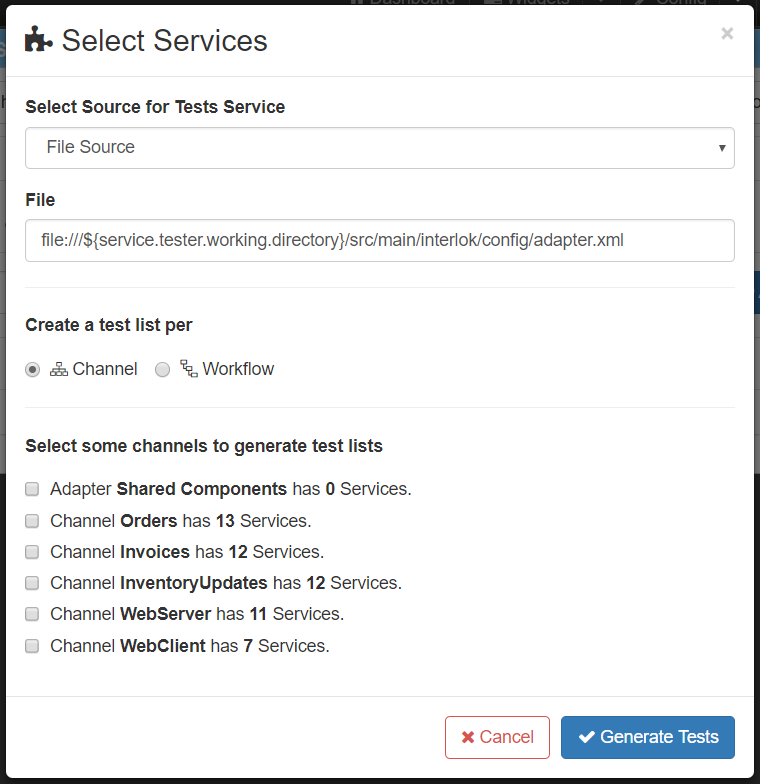
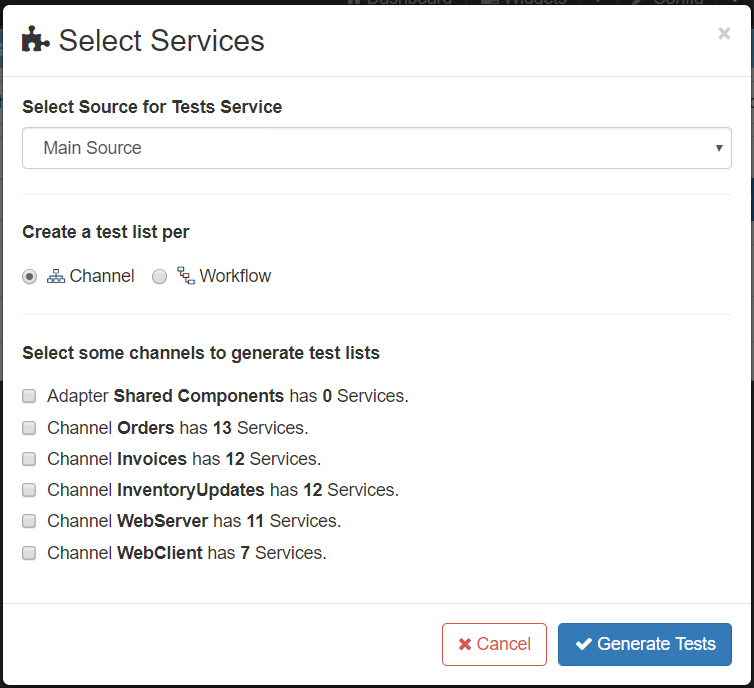
Update the service tester page doc

Changed region(s): [[0.0, 0.0, 1.0, 1.0], [0.6406, 0.0, 0.7626, 0.0305], [0.8541, 0.0, 0.9456, 0.0305]]

diff --git a/docs/pages/ui/ui-service-tester.md b/docs/pages/ui/ui-service-tester.md
@@ -26,13 +26,13 @@ The actions are as follows:
 
 Button | Action | Meaning
 ------------ | ------------- | ------------
-![The service tester new config button](../../images/ui-user-guide/service-tester-new-config-btn.png) | New Config | Reset the page with a new config
-![The service tester open from saved projects button](../../images/ui-user-guide/service-tester-open-from-saved-projects-btn.png) | Open from saved projects | Open a config from a saved config project. Since 3.8.1
-![The service tester open from saved on local file system button](../../images/ui-user-guide/service-tester-open-from-saved-on-local-file-system-btn.png) | Open from saved on local file system | Open a config from a config project saved your local file system. Only available when the UI is accessed via localhost. Since 3.8.1
+![The service tester open config button](../../images/ui-user-guide/service-tester-open-config-btn.png) | Open config | Open a modal with several choices to open a project (New, File System, Save Projects, Local Project, Auto Saved and Version Control)
+![The service tester new project button](../../images/ui-user-guide/service-tester-new-project-btn.png) | New Project | Reset the page with a new project
 ![The service tester upload config button](../../images/ui-user-guide/service-tester-upload-config-btn.png) | Upload Config | Upload an XML config into the page
 ![The service tester load services fron adapter config button](../../images/ui-user-guide/service-tester-load-services-from-adapter-config-btn.png) | Load Services From Adapter Config | Load in the page context all the services from an Adapter XML config so they can be used in the Tests Source (File or Inline)
 ![The service tester generate services fron adapter config button](../../images/ui-user-guide/service-tester-generate-services-from-adapter-config-btn.png) | Generate Services From Adapter Config | Generate tests for all selected services from an Adapter XML config. The Tests can either have a File or an Inline Source
 ![The service tester save config button](../../images/ui-user-guide/service-tester-save-config-btn.png) | Save Config | Save the current config into a config project (existing, new or on the local file system)
+![The service tester publish project button](../../images/ui-user-guide/service-tester-publish-project-btn.png) | Publish project | Publish the current project to VCS
 ![The service tester download config button](../../images/ui-user-guide/service-tester-download-config-btn.png) | Download Config | Download the current config into an XML file
 ![The service tester run config button](../../images/ui-user-guide/service-tester-run-config-btn.png) | Run Config | Run the current config tests
 ![The service tester clear results button](../../images/ui-user-guide/service-tester-clear-results-btn.png) | Clear Results | Run the current config tests results
@@ -48,12 +48,16 @@ In the Edit Service Test modal you can change the service test unique id and sel
 The Service Test form inputs explained:
 
 - **Unique Id:** This provide an easy way to name the service test.
+- **Source:** The source of the adapter xml configuration. By default **Default Config File Source** is used.
+   - **Default Config File Source:** This has the **File** property set with *file:///${service.tester.working.directory}/src/main/interlok/config/adapter.xml* which is not changeable. This the right choice in a normal Interlok project.
+   - **File Source:** If the adapter xml configuration to use is not in the default location this should be use and the the xml config location should be provided in the **File** property.
 - **Test Adapter Type:** Adapter to run the tests. There are three kind of test client you can use. By default the **Local JMX test Client** is used to run the tests.
    - **Embedded JMX Test client:** Create a temporary adapter in the local JVM to run the tests.
    - **External JMX Test client:** Use the specified JMX URL to find the adapter to run the tests.
    - **Local JMX Test client:** Use the local adapter to run the tests. This means the adapter running the UI will run the tests.
+- **Helpers:** Helpers for the service tests. An empty list means that no helpers (such as interlok-service-tester-wiremock) exist in the classpath.
 
-## Looding/Generating Tests From Adapter Config ##
+## Loading/Generating Tests From Adapter Config ##
 
 Since 3.7.3 The Service Tester page allows to load services from an Adapter config to be able to use them as source (File or Inline) when creating a test.
 For that you will need to click on the **Load Services From Adapter Config** button in the page menu.
@@ -88,6 +92,7 @@ The Test form inputs explained:
 
 - **Unique Id:** This provide an easy way to differentiate tests in the service tester configuration.
 - **Source:** This is the service to be tested.
+    - **Main Source:** Uses the source defined in the [Service Test](#service-test).
     - **File Source:** Path to a file with the service xml configuration. **Note:** this will only work if the file is accessible by the adapter running the tests.
     - **Inline Source:** Service xml configuration.
 - **Preprocessors:** A list of preprocessors to apply on the service xml before running the tests.
